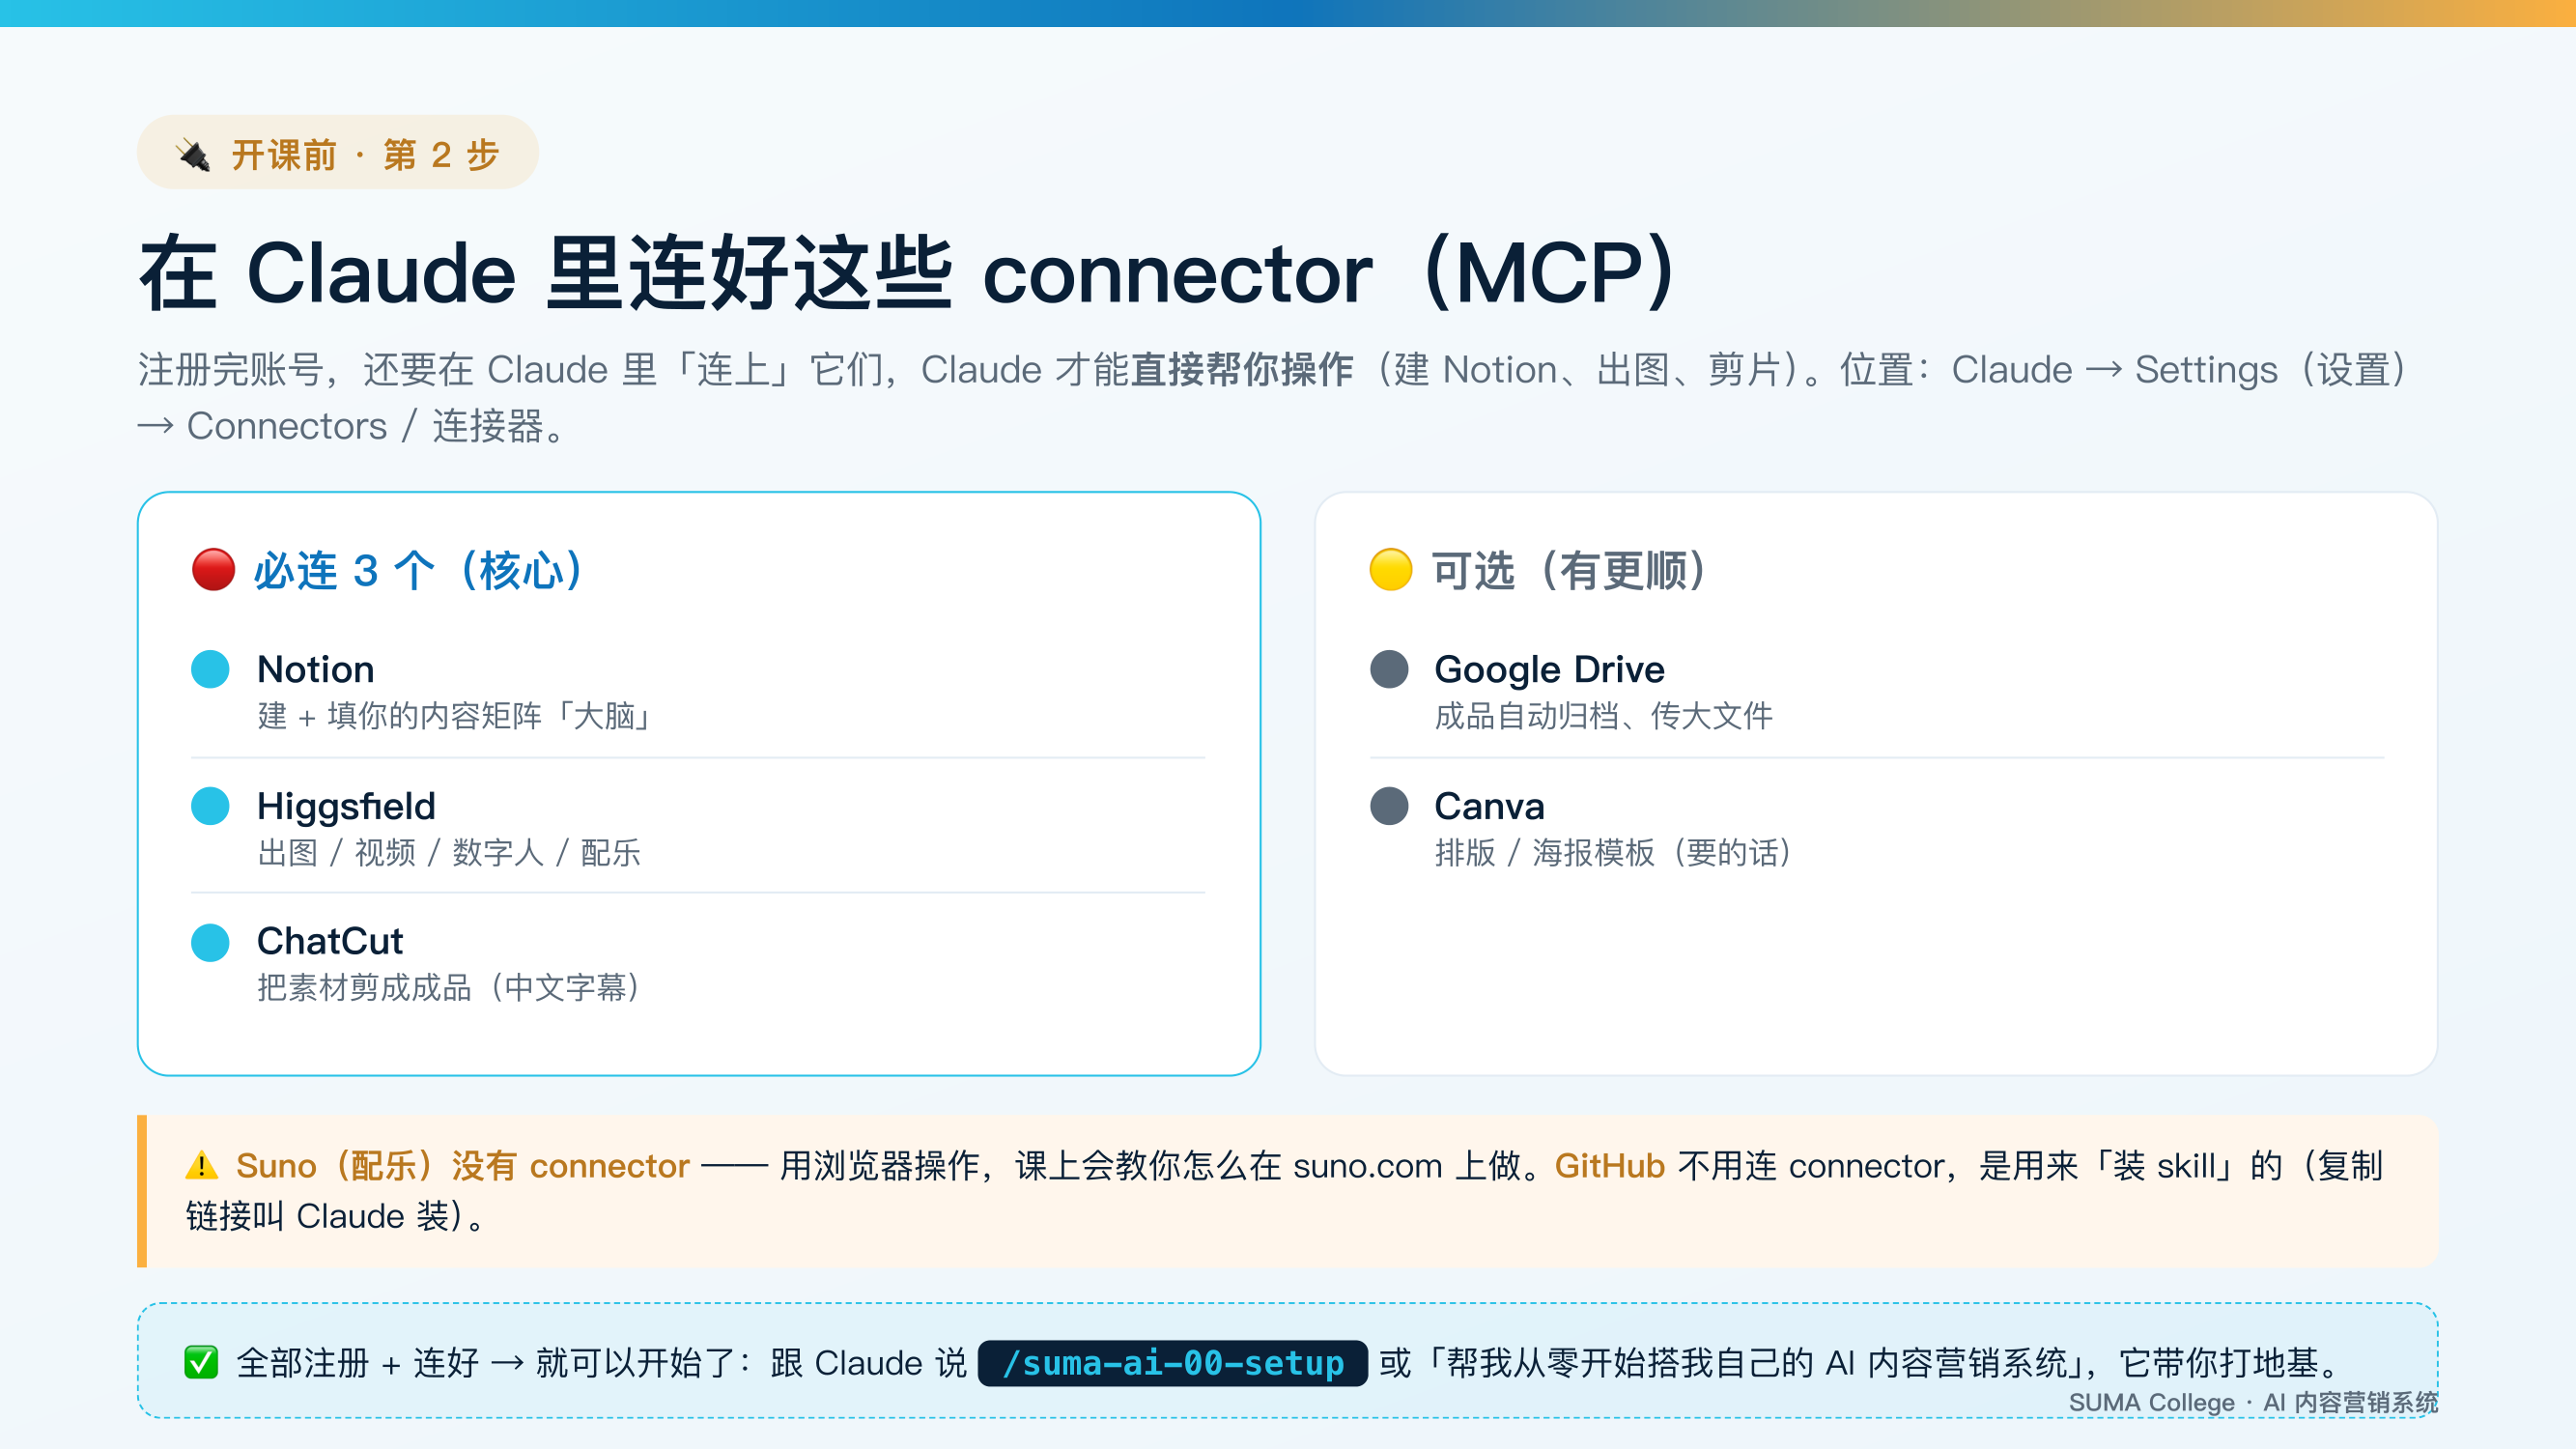
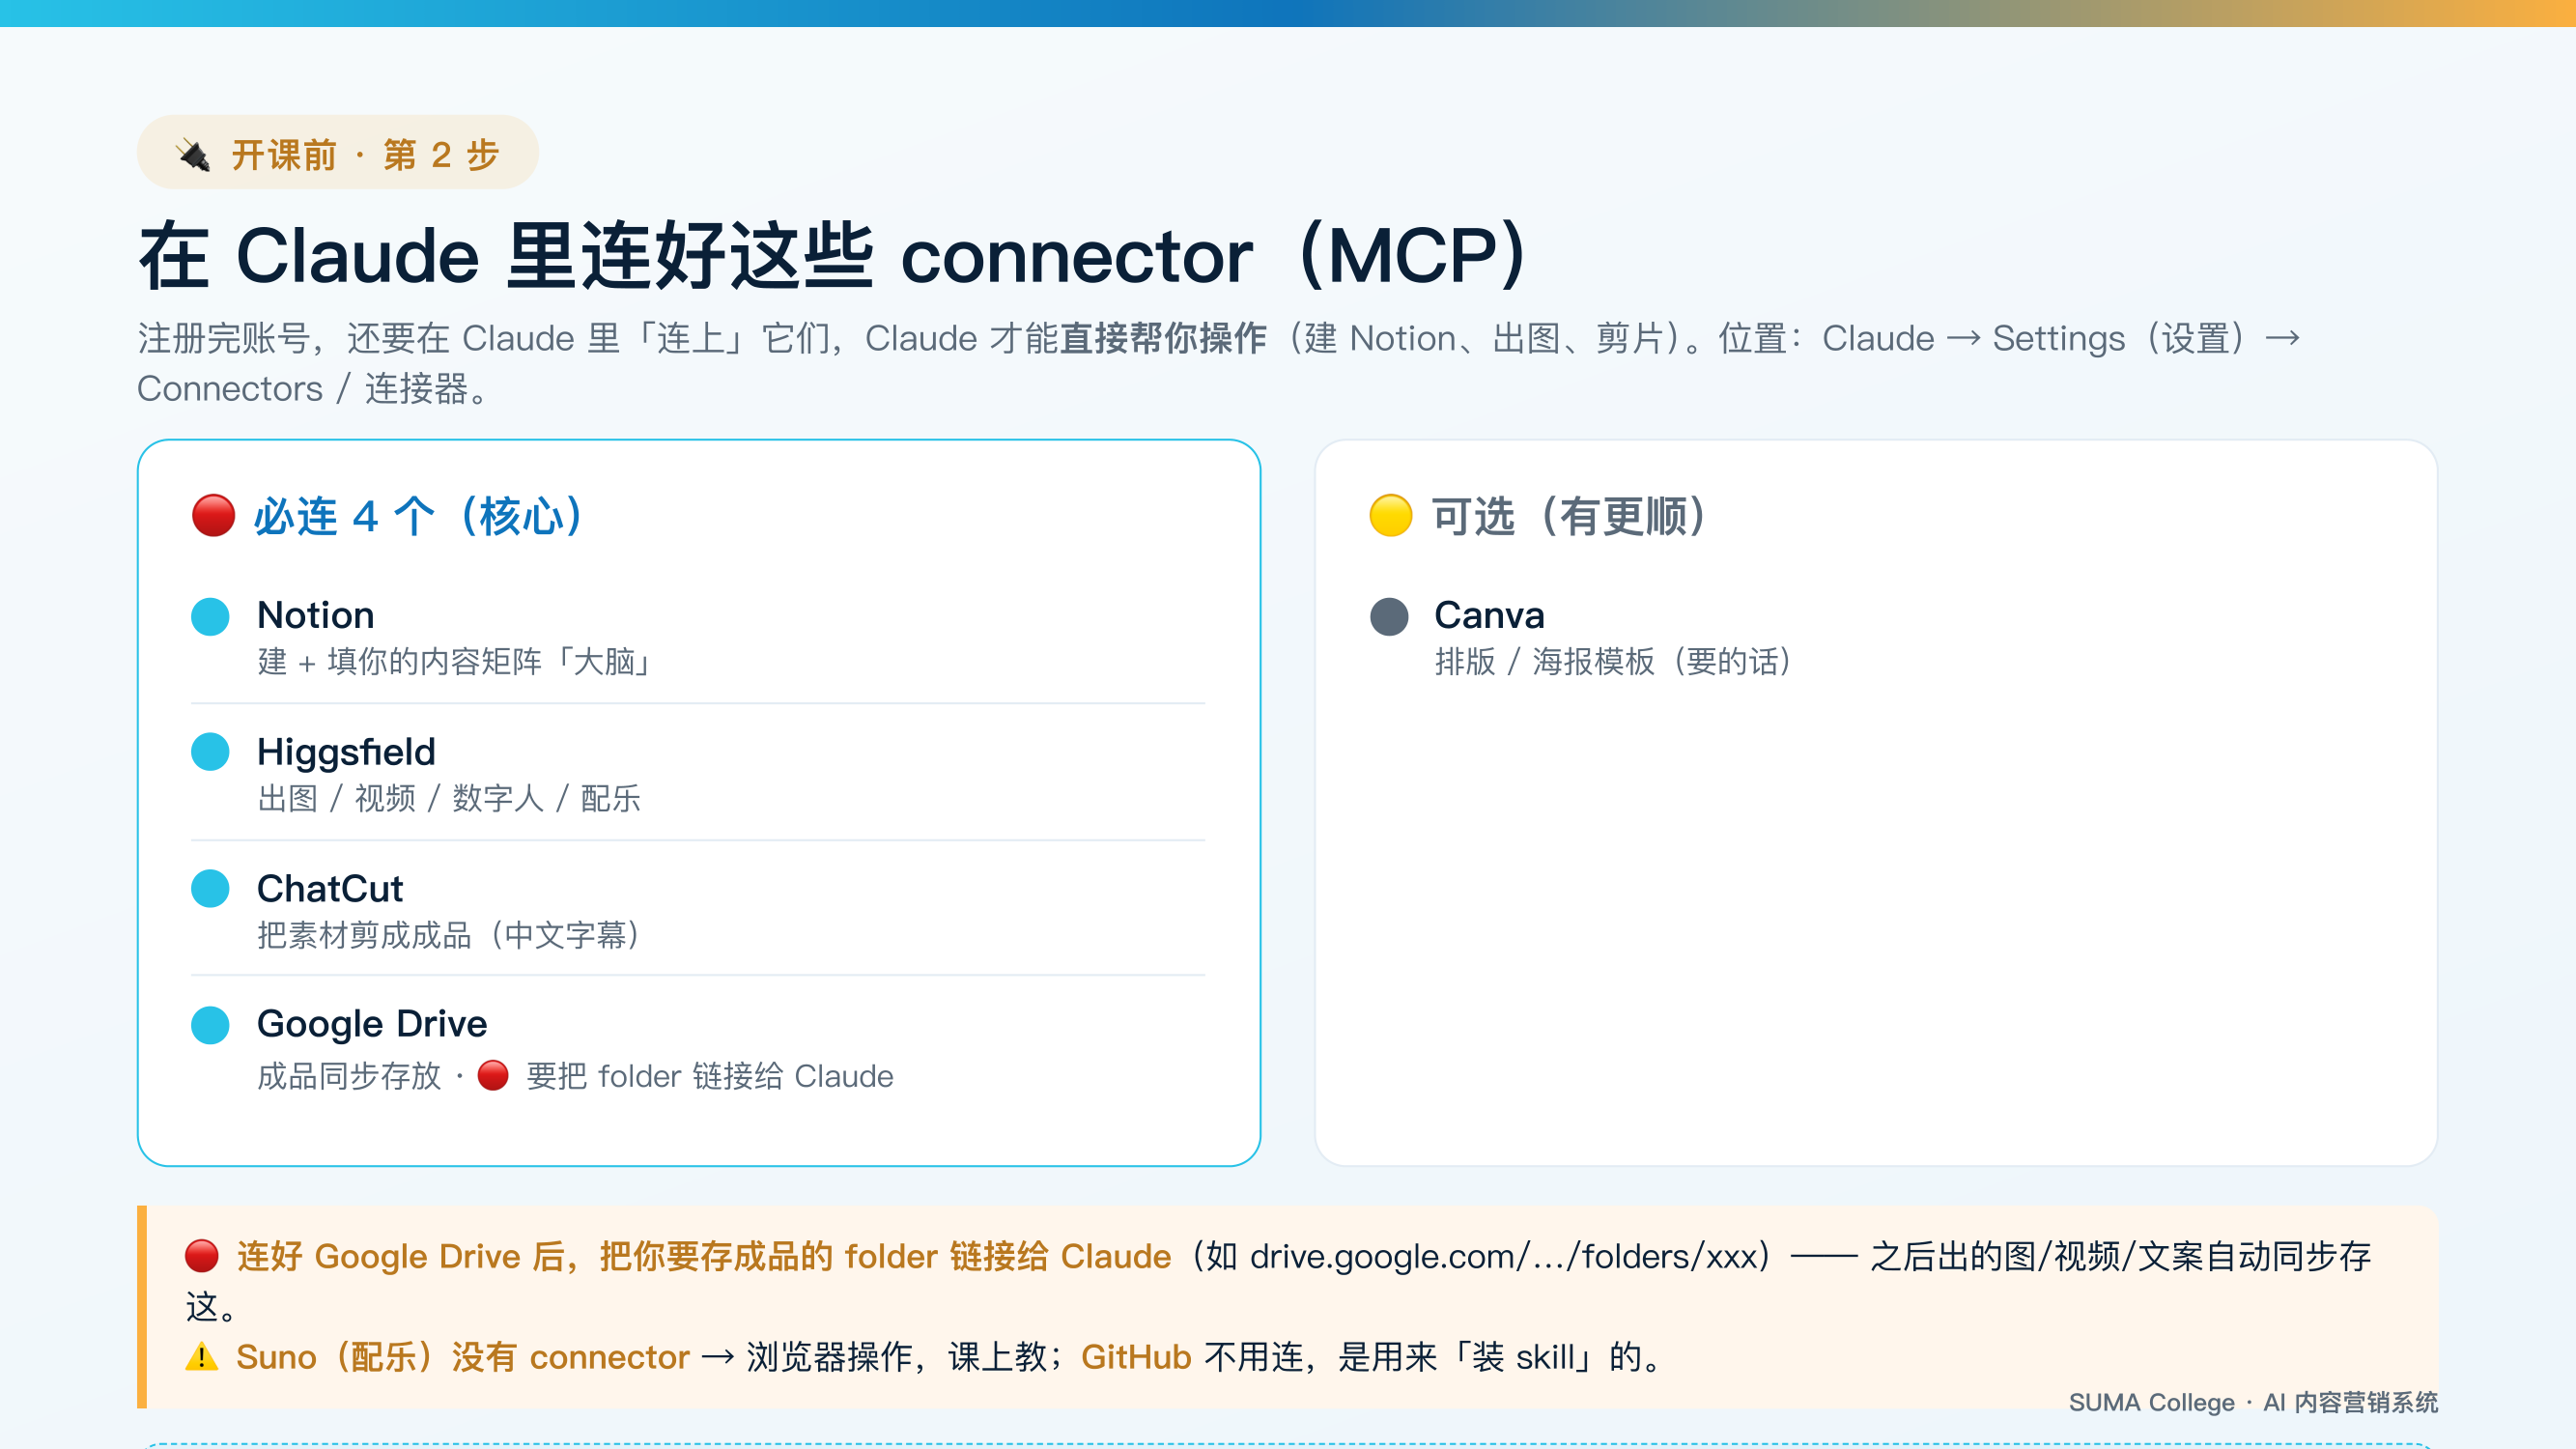
Drive改必连+要folder链接同步存:00第0步/08开场白/课前PPT两张slide都加上

diff --git a/install-skills/00-setup/SKILL.md b/install-skills/00-setup/SKILL.md
@@ -29,11 +29,13 @@ metadata:
 
 ## 这是「守门人」——所有 part 之前必须先跑它
 
-### 第 0 步 · 先定「落脚点」：东西存哪（🔴 学生完全空白，先给他一个家）
-🔴🔴 **学生第一次来、啥都不会，你（Claude）对他也一无所知 —— 别一上来问品牌，先定「东西存哪」**（一题一张选项卡）：
-1. **电脑上开一个成品 folder** —— 图/视频/文案/业务 md 全存这。问他放哪、叫什么（给默认建议 `~/我的AI内容营销/<品牌名>`），你来建好。
-2. **Notion（这套系统的大脑）** —— 有没有 Notion 账号？**没有 → 先带他注册 + 连 Notion connector**；有 → 待会你在里面帮他搭骨架。
-3. 落脚点定了 → 写进业务 md 的「文件存放位置」→ 才进第 1 步。**没定落脚点，别往下问品牌。**
+### 第 0 步 · 先定「落脚点」+ 连好账号（🔴 学生完全空白，先给他一个家）
+🔴🔴 **学生第一次来、啥都不会，你对他也一无所知 —— 别一上来问品牌，先把「工具连好 + 东西存哪」搞定**（一题一张选项卡）：
+1. **账号 + connector 连好没？** 🔴 **必连 4 个：Notion · Higgsfield · ChatCut · Google Drive**（缺 → 给注册链接、教他在 Claude 设置 → Connectors 里连）。Suno 没 connector（浏览器操作、课上教），GitHub 用来装 skill。
+2. **电脑上开一个成品 folder** —— 图/视频/文案/业务 md 全存这（默认 `~/我的AI内容营销/<品牌名>`），你来建好。
+3. **哪个 Notion** —— 待会在里面帮他搭骨架。
+4. 🔴 **要他的 Google Drive folder 链接** —— 成品之后**自动同步存这**（如 `drive.google.com/…/folders/xxx`）；记进业务 md 的「Drive 链接」。
+5. 账号连好 + 落脚点定了 → 写进业务 md（文件存放位置 / Drive 链接）→ 才进第 1 步。**没搞定，别往下问品牌。**
 
 ### 第 1 步 · 先问：新业务还是已有业务？（选项卡）
 > - **新业务** → 从零开始：先建业务 md → 品牌地基 → Notion 骨架。

diff --git a/install-skills/08-full/SKILL.md b/install-skills/08-full/SKILL.md
@@ -135,7 +135,7 @@ description: >-
 > 我们从**地基**开始。你先回我这三个（一次回一个就行）：
 > 1️⃣ **你的生意 / 品牌是做什么的？** 一句话就好。
 >   （例：SUMA 是「教人用 AI 做营销内容的课程」。）
-> 2️⃣ **这 6 个账号你有了吗？** Claude ✅ / Notion / Higgsfield / ChatCut / Suno / GitHub。缺哪个我给你注册链接。
+> 2️⃣ **这 7 个账号你有了吗？** Claude ✅ / Notion / Higgsfield / ChatCut / Suno / GitHub / **Google Drive**。缺哪个我给你注册链接。🔴 其中 **Notion · Higgsfield · ChatCut · Google Drive 还要在 Claude 里连 connector**；连好 Google Drive 后**给我你要存成品的 folder 链接**（之后成品自动同步存这）。
 > 3️⃣ **有品牌 logo（浅底 + 深底）和品牌色吗？**
 >   （例：SUMA 品牌色是 #28c2e7 青 / #0f75bc 蓝 / #fcb040 橙。）
 >
@@ -155,7 +155,8 @@ description: >-
     - **GitHub**（github.com）—— 🔴 **一定要用 email + 密码注册，别用「Sign in with Google」那种第三方登入**：GitHub 对第三方登入很敏感，**用 Google 登入常常开不到账号**，email + 密码最稳。
   - 💡 她嫌贵/犹豫 → **先上课学方法和系统，课后再订阅来练习**，一样能学；别逼她当场买。
 - skill 包她已在用 = 已装好；memory 里没品牌资料 → 下一关补。
-- 一次把 6 账号 + connector 弄好 → 之后不再碰安装。
+- 一次把 7 账号 + connector 弄好（🔴 **Notion · Higgsfield · ChatCut · Google Drive 必连**）→ 之后不再碰安装。
+- 🔴 **要她的 Google Drive folder 链接**（成品之后自动同步存这，如 `drive.google.com/…/folders/xxx`），记进 memory。
 
 ### 第 1 关 · 品牌地基（一次问一个，帮她定，写进 memory）
 > 每问一个，都给 **SUMA 的填法**当范例，她照着填自己的就好。